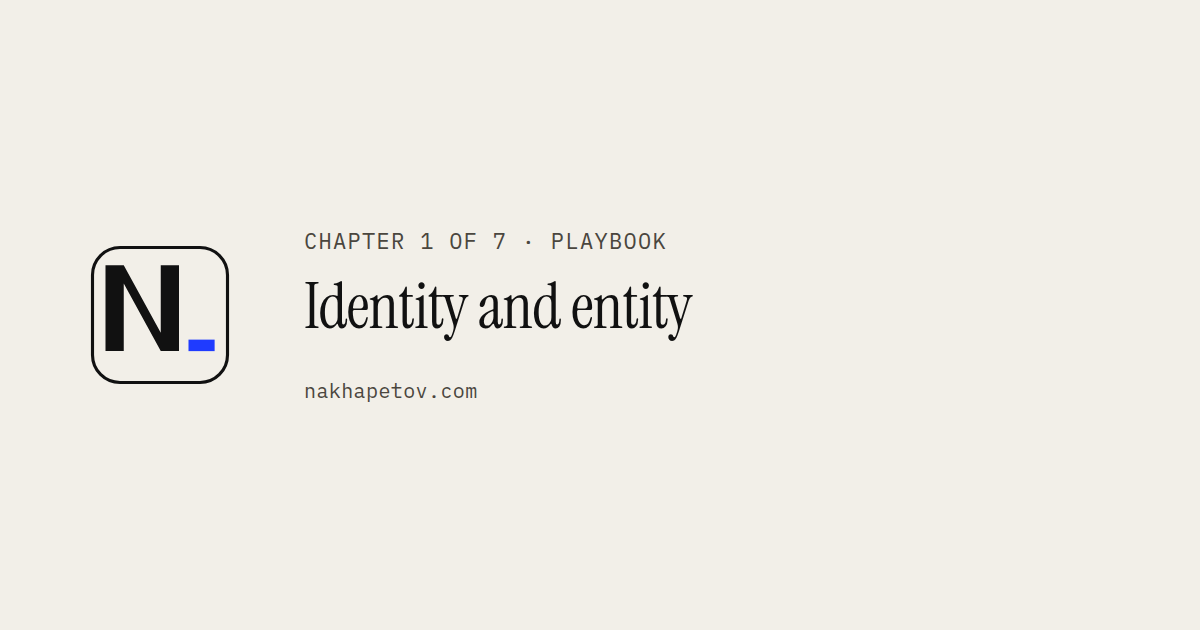
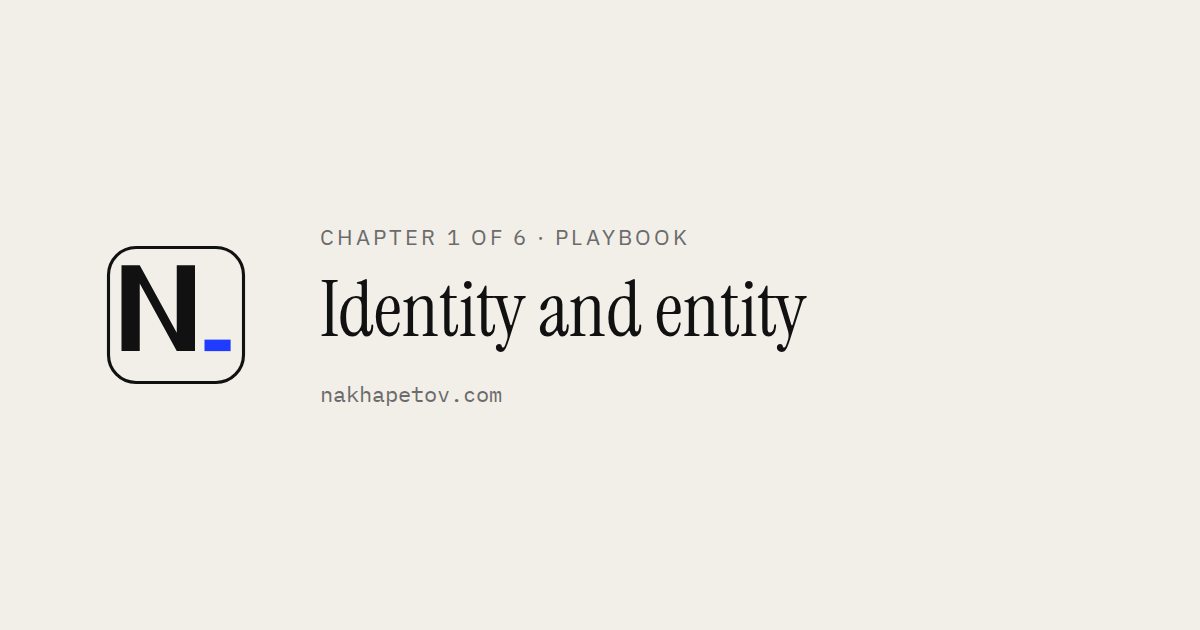
Reduce playbook route to six steps; clean chapter-1 traps
Drop Promotion station and seven-step/promotion copy across route,
stats, FAQ, early-access, OG, and chapter-1. Keep personal-detail
copy for a Tim audit list (no stripping yet).

diff --git a/src/data/playbook.ts b/src/data/playbook.ts
@@ -8,7 +8,7 @@ export const playbook = {
   edition: 'November 2026',
   freeChapterPath: '/playbook/chapter-1',
   stats: [
-    { value: '7', label: 'steps in order' },
+    { value: '6', label: 'steps in order' },
     { value: '17', label: 'traps and fixes' },
     { value: '14', label: 'AI briefs' },
     {
@@ -32,7 +32,7 @@ export const playbook = {
     },
     {
       q: 'What does it cover?',
-      a: "Web payments through a merchant of record, Google Play setup, review, subscriptions, the fee program and a zero-budget promotion plan.",
+      a: 'Web payments through a merchant of record, Google Play setup, review, subscriptions and the fee program.',
     },
   ],
 };

diff --git a/src/data/route.ts b/src/data/route.ts
@@ -1,5 +1,5 @@
 /**
- * Карта маршрута плейбука (7 станций).
+ * Карта маршрута плейбука (6 станций).
  * Править здесь — без правок вёрстки.
  */
 export interface RouteStation {
@@ -53,13 +53,6 @@ export const routeStations: RouteStation[] = [
     title: 'Billing',
     tip: 'subscriptions, notifications, 15% fee',
     trap: 'Subscriptions, notifications, 15% fee.',
-    chapterHref: null,
-  },
-  {
-    id: 7,
-    title: 'Promotion',
-    tip: 'plan, measure, iterate',
-    trap: 'Plan, measure, iterate.',
     chapterHref: null,
   },
 ];
